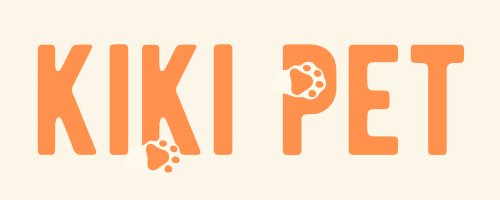
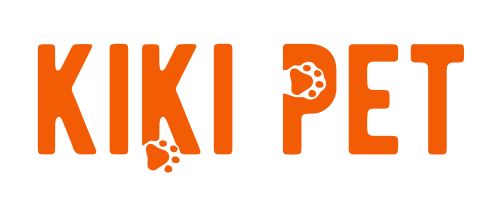
Testes no design/layout/cores

Changed region(s): [[0.06, 0.21, 0.48, 0.87], [0.54, 0.21, 0.93, 0.78]]

diff --git a/src/components/Products.module.css b/src/components/Products.module.css
@@ -1,9 +1,10 @@
 .cardProduct {
     width: 250px;
     height: 300px;
-    background-color:#fcf6e9;
-    border: 3px solid cadetblue;
-    color: black;
+    background-image: url('./../assets/background.png');
+    background-size:  25vw;
+    background-repeat: no-repeat;
+    color: #3F3CA6;
     border-radius: 20px;
     margin: 2rem;
     padding: 1rem;
@@ -24,4 +25,5 @@
 
 .productDescription {
     font-size: 14px;
+    color: black;
 }

diff --git a/src/components/Navbar/Navbar.module.css b/src/components/Navbar/Navbar.module.css
@@ -2,7 +2,7 @@
     display: flex;
     flex-wrap: wrap;
     align-items: center;
-    background-color:#fcf6e9;
+    background-color:#ffffff;
     width: 100vw;
     justify-content: center;
     padding-top: 1.25rem;
@@ -27,7 +27,7 @@
     font-weight: 600;
 }
 .navLink:visited {
-    color: #000000;
+    color: #F257AC;
     
 }
 

diff --git a/src/index.css b/src/index.css
@@ -2,10 +2,11 @@
   font-family: Inter, system-ui, Avenir, Helvetica, Arial, sans-serif;
   line-height: 1.5;
   font-weight: 400;
-
+  background-color: #fffaec;
+/* 
   color-scheme: light dark;
   color: rgba(255, 255, 255, 0.87);
-  background-color: #242424;
+ */
 
   font-synthesis: none;
   text-rendering: optimizeLegibility;

diff --git a/src/components/CartWidget.module.css b/src/components/CartWidget.module.css
@@ -1,10 +1,10 @@
 .counter {
-    color: black;
+    color: #3F3CA6;
     margin-left: 0.2rem;
     text-align: center;
 }
 
 .cart {
-    color: black;
+    color:#3F3CA6;
     
 }
